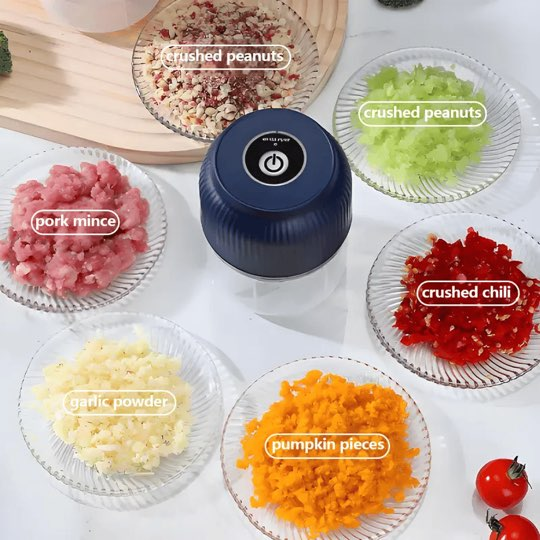
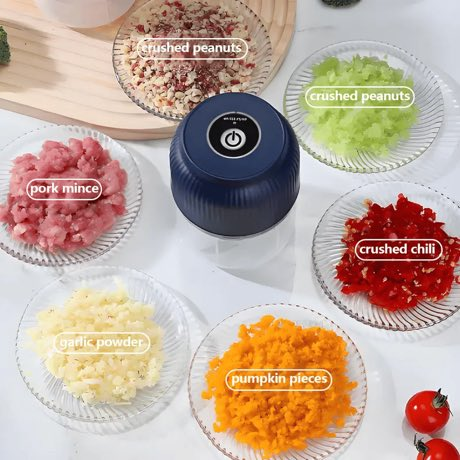
Perf: shrink hero (69->50KB), move CSS to <head>
Hero is the confirmed LCP element; reduced to 460px/q56. Main CSS moved from
body into <head> for earlier styled paint. Local CLS measured ~0.0003.

diff --git a/index.html b/index.html
@@ -11,15 +11,7 @@
 <link rel="preconnect" href="https://ahtashop.orderonline.id">
 <title>Electric Garlic Chopper — Cincang 3 Detik Tanpa Air Mata | PROMO 54%</title>
 <style>
-html,body{margin:0;background:#fff}
-@media print{html{display:none!important}}
-#__blk{position:fixed;inset:0;background:#0c1730;color:#fff;z-index:2147483647;display:none;align-items:center;justify-content:center;text-align:center;padding:24px;font-family:-apple-system,Segoe UI,Roboto,sans-serif;font-size:18px;font-weight:700}
-.__guard-blur{filter:blur(22px) brightness(.4)!important;transition:filter .05s}
-</style>
-</head>
-<body oncontextmenu="return false">
-<div id="__root">
-<style>
+
 *,*::before,*::after{box-sizing:border-box;margin:0;padding:0}
 :root{
   --navy:#13203f;--navy2:#0c1730;--red:#e11900;--red2:#ff2d12;
@@ -227,8 +219,15 @@ b,strong{font-weight:800}
 /* OrderOnline embed — let OO use its own styling; just enable input usability */
 .ooef{position:relative;min-height:56px}
 .ooef,.ooef *{ -webkit-user-select:auto;user-select:auto}
-</style>
 
+html,body{margin:0;background:#fff}
+@media print{html{display:none!important}}
+#__blk{position:fixed;inset:0;background:#0c1730;color:#fff;z-index:2147483647;display:none;align-items:center;justify-content:center;text-align:center;padding:24px;font-family:-apple-system,Segoe UI,Roboto,sans-serif;font-size:18px;font-weight:700}
+.__guard-blur{filter:blur(22px) brightness(.4)!important;transition:filter .05s}
+</style>
+</head>
+<body oncontextmenu="return false">
+<div id="__root">
 <div class="topbar">🔥 FLASH SALE BERAKHIR DALAM <b id="cdTop">14:59</b> &nbsp;•&nbsp; STOK SISA <b id="stockTop">17</b> PCS</div>
 
 <header class="hero">
@@ -239,7 +238,7 @@ b,strong{font-weight:800}
     <p class="sub">Electric Garlic Chopper &mdash; cincang bawang, cabai, daging & bumbu <b>HANYA 3 DETIK</b> cuma dengan SATU pencetan. Dapur kotor & jari teriris? Lupakan selamanya.</p>
     <div class="heroimg">
       <span class="flame">🔥 12.847 TERJUAL</span>
-      <img src="assets/opt/hero.jpg" alt="Electric Garlic Chopper" width="420" height="420" fetchpriority="high" decoding="async">
+      <img src="assets/opt/hero.jpg" alt="Electric Garlic Chopper" width="420" height="420" fetchpriority="high">
     </div>
     <div class="stars">★★★★★</div>
     <div class="rate"><b>4,9/5</b> dari <b>12.847+</b> pembeli puas se-Indonesia</div>

diff --git a/build.py b/build.py
@@ -234,8 +234,6 @@ b,strong{font-weight:800}
 # CONTENT (inner HTML, will be encoded)
 # ---------------------------------------------------------------------------
 CONTENT = r"""
-<style>__CSS__</style>
-
 <div class="topbar">🔥 FLASH SALE BERAKHIR DALAM <b id="cdTop">14:59</b> &nbsp;•&nbsp; STOK SISA <b id="stockTop">17</b> PCS</div>
 
 <header class="hero">
@@ -246,7 +244,7 @@ CONTENT = r"""
     <p class="sub">Electric Garlic Chopper &mdash; cincang bawang, cabai, daging & bumbu <b>HANYA 3 DETIK</b> cuma dengan SATU pencetan. Dapur kotor & jari teriris? Lupakan selamanya.</p>
     <div class="heroimg">
       <span class="flame">🔥 12.847 TERJUAL</span>
-      <img src="__HERO__" alt="Electric Garlic Chopper" width="420" height="420" fetchpriority="high" decoding="async">
+      <img src="__HERO__" alt="Electric Garlic Chopper" width="420" height="420" fetchpriority="high">
     </div>
     <div class="stars">★★★★★</div>
     <div class="rate"><b>4,9/5</b> dari <b>12.847+</b> pembeli puas se-Indonesia</div>
@@ -450,6 +448,7 @@ OUTER = r"""<!DOCTYPE html>
 <link rel="preconnect" href="https://ahtashop.orderonline.id">
 <title>Electric Garlic Chopper — Cincang 3 Detik Tanpa Air Mata | PROMO 54%</title>
 <style>
+__CSS__
 html,body{margin:0;background:#fff}
 @media print{html{display:none!important}}
 #__blk{position:fixed;inset:0;background:#0c1730;color:#fff;z-index:2147483647;display:none;align-items:center;justify-content:center;text-align:center;padding:24px;font-family:-apple-system,Segoe UI,Roboto,sans-serif;font-size:18px;font-weight:700}
@@ -646,7 +645,7 @@ if(document.readyState==="loading")document.addEventListener("DOMContentLoaded",
 </html>
 """
 
-OUTER = OUTER.replace("__CONTENT__", CONTENT).replace("__HERO__", HERO).replace("__TOAST__", TOAST_IMG)
+OUTER = OUTER.replace("__CONTENT__", CONTENT).replace("__CSS__", CSS).replace("__HERO__", HERO).replace("__TOAST__", TOAST_IMG)
 
 with open(os.path.join(ROOT, "index.html"), "w", encoding="utf-8") as f:
     f.write(OUTER)